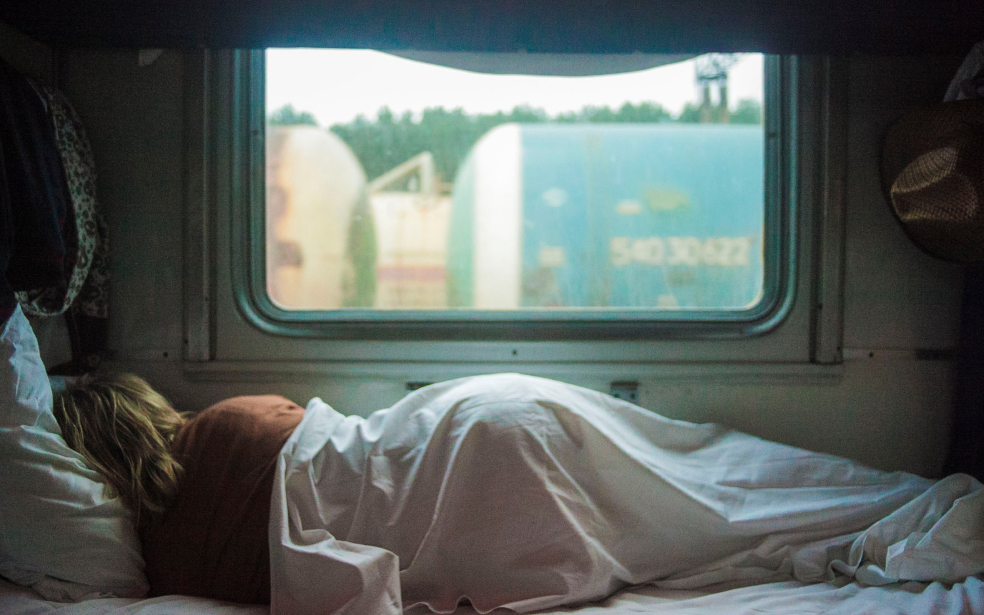
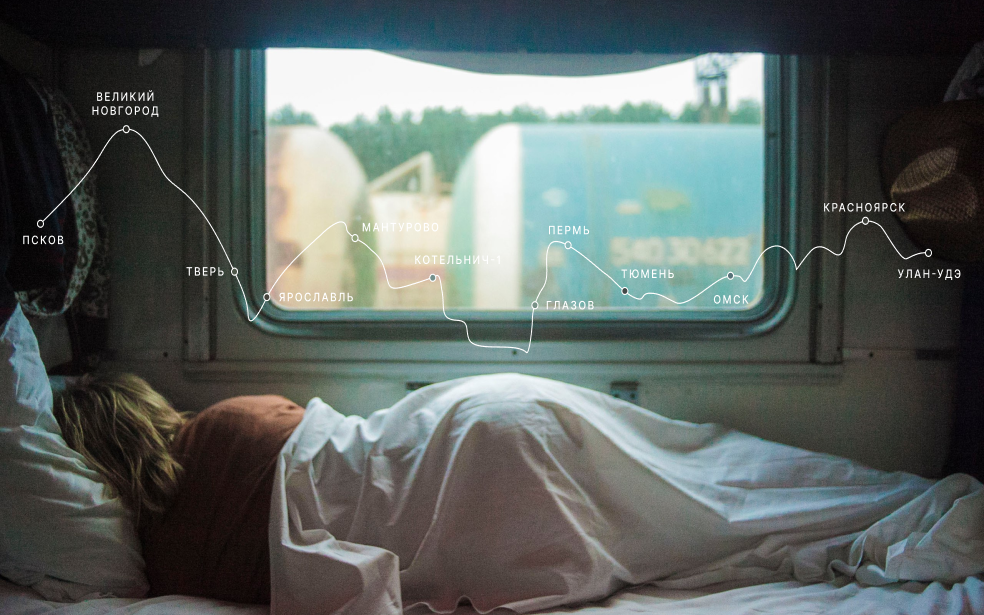
Подогнал под perfect pixel

diff --git a/index.html b/index.html
@@ -9,23 +9,19 @@
 <body>
     <div class=page>
         <header class=header>
-          <svg class="header__logo" width="176" height="52" fill="none" xmlns="http://www.w3.org/2000/svg"><path d="M7.765 23.383l2.646-1.31 4.181-6.281 1.28-.524 1.365 6.37-1.792.261-1.365-2.617-1.024 4.1h4.523l4.693 1.222 1.877-1.221 3.158 3.315 1.365-6.107 2.219 2.268 1.365-1.92 2.219-.61 3.242-3.054.512-1.483 2.646.436 1.11 1.483L40.02 21.9l4.864-2.53v-1.221l1.878-.437 2.048 2.094 2.048-2.53V15.53l3.328-2.355 1.365-2.007h2.133l3.755-7.765L64.683 0l1.194 1.92L64 4.361l.683 1.57 1.792.35 1.45 6.456v5.41l2.56 3.577 1.28 4.973-4.437-2.88-1.963-8.288-1.194.262-.17 5.584-3.244 5.322-.938 8.114 2.218.524.94-1.135 2.132 2.443 1.622 7.33-.17 4.71h-2.049l-.768-6.63-1.45 2.006-3.158-.698-2.56-2.18-2.901 1.046.17 4.712-2.304.61-3.413 2.618-4.096-.524-1.621-.96-2.56.437.853 1.047-2.048 1.221-1.621-.785L33.963 52l-4.694-2.356-1.792-4.188-1.536.175-1.792-1.483-.085-1.135-5.717-.61-.939 3.14-3.584-1.657-1.792-3.054h-3.84l-.427 4.886-2.218.698-1.11 4.45-.853-.785L0 40.745l4.267-2.094-.683-4.1-.683-4.189 1.878-2.704L4.18 26l2.56-2.792 1.024.175zm56.747 10.295l3.925 5.933 1.28-.524-1.62-2.443-3.585-3.839v.873zm-40.107-12.04v-1.745l2.987-2.182 2.56-1.308h-2.987l-2.645 1.57-1.621 1.483v2.182h1.706zM89.831 41h4.724V35.82h2.616c3.967 0 6.626-2.344 6.626-6.103 0-3.716-2.591-6.17-6.456-6.17h-7.51V41zm4.724-8.863V27.33h1.665c1.656 0 2.65.886 2.65 2.386 0 1.492-.994 2.42-2.65 2.42h-1.665zM111.604 41.24c4.247 0 6.762-2.728 6.762-6.75 0-4.024-2.515-6.75-6.762-6.75-4.248 0-6.762 2.726-6.762 6.75 0 4.022 2.514 6.75 6.762 6.75zm.034-3.478c-1.257 0-2.005-1.253-2.005-3.307 0-2.054.748-3.307 2.005-3.307 1.189 0 1.937 1.253 1.937 3.307 0 2.054-.748 3.307-1.937 3.307zM126.555 41.24c3.865 0 6.235-2.225 6.286-5.694h-4.349c-.102 1.372-.841 2.114-1.869 2.114-1.232 0-2.039-1.057-2.039-3.205s.807-3.205 2.039-3.205c1.036 0 1.741.742 1.869 2.114h4.349c-.025-3.409-2.446-5.625-6.286-5.625-4.247 0-6.762 2.727-6.762 6.75s2.515 6.75 6.762 6.75zM141.062 41.24c3.866 0 6.236-2.225 6.287-5.694h-4.35c-.102 1.372-.841 2.114-1.869 2.114-1.231 0-2.038-1.057-2.038-3.205s.807-3.205 2.038-3.205c1.037 0 1.742.742 1.869 2.114h4.35c-.026-3.409-2.447-5.625-6.287-5.625-4.247 0-6.762 2.727-6.762 6.75s2.515 6.75 6.762 6.75zM153.701 35v-7.09h-4.418V41h4.418l3.636-7.125V41h4.417V27.91h-4.417L153.701 35zM171.651 41H176V27.91h-6.116c-3.764 0-6.142 1.909-6.117 4.568-.017 1.491.875 2.727 2.438 3.46L163.631 41h4.316l2.2-4.33h1.504V41zm0-7.159h-1.665c-1.249 0-1.827-.613-1.801-1.193-.026-.545.518-1.227 1.699-1.227h1.767v2.42z" fill="#fff"/></svg>
-          <ul class="header__language-list">
-            <li class="header__list-item">
-              <a class="header__lang-link header__lang-link_pointer" href="#">Ru</a>
-            </li>
-            <li class="header__list-item">
-              <a class="header__lang-link" href="#">En</a>
-            </li>
-          </ul>
+          <img class="header__logo" src="./images/header-logo.svg" alt="карта России">
+          <div class="header__language-list">
+          <a class="header__lang-link header__lang-link_pointer" href="#">Ru</a>
+          <a class="header__lang-link" href="#">En</a>
+          </div>
         </header>
         <section class="lead">
-          <h1 class="lead__title">Путешествия по России</h1>
+          <h1 class="lead__title">Путешествия<br>по России</h1>
           <p class="lead__subtitle">Настоящая страна не в выпусках новостей, а здесь.</p>
-          <div class="lead__image">
-            <img src="./images/Group 4.svg" alt="Путь путешествия с пометкой городов" class="lead__image-track">
-          </div>
-          <p class="lead__caption">Ваша полка - верхняя</p>
+          <figure class="lead__image">
+            <img src="./images/lead-polka.png" alt="Спящая девушка в вагоне" class="lead__image-track">
+          <figcaption class="lead__caption">Ваша полка &#8212; верхняя</figcaption>
+          </figure>
         </section>
         <section class="intro">
           <h2 class="intro__title">Чего мы там не видели?</h2>
@@ -73,10 +69,8 @@
               <a class="place__link" href="https://yourshot.nationalgeographic.com/photos/?keywords=kolskiy" target="_blank">National Geographic</a>
             </div>
             <div class="place__text">
-            <p class="place__paragraph">Почти весь полуостров находится за Полярным кругом. Саамская тундра, от которой на юг — 
-              тайга, а на север — Ледовитый океан, прикидывающийся Баренцевым морем.</p>
-            <p class="place__paragraph">Возможно, вы смотрели Звягинцева и даже слышали историю арктического фестиваля в Териберке. Возможно, слово «Хибины» не осталось под снегом школьных воспоминаний об уроках географии. Возможно, вы не интересовались пронизывающей земную кору сверхглубокой скважиной, а от апатитов вас давно накрывает апатия. Но ваша мечта увидеть северное сияние начинает сбываться с билетом
-              в Мурманск.</p>
+            <p class="place__paragraph">Почти весь полуостров находится за Полярным кругом. Саамская тундра, от которой на юг — тайга, а на север — Ледовитый океан, прикидывающийся Баренцевым морем.</p>
+            <p class="place__paragraph">Возможно, вы смотрели Звягинцева и даже слышали историю арктического фестиваля в Териберке. Возможно, слово «Хибины» не осталось под снегом школьных воспоминаний об уроках географии. Возможно, вы не интересовались пронизывающей земную кору сверхглубокой скважиной, а от апатитов вас давно накрывает апатия. Но ваша мечта увидеть северное сияние начинает сбываться с билетом в Мурманск.</p>
             </div>
           </article>
           <article class="place">
@@ -87,8 +81,7 @@
               <a class="place__link" href="https://www.facebook.com/vera.bashmakova/posts/10156011613718822" target="_blank">Facebook</a>
             </div>
             <div class="place__text">
-            <p class="place__paragraph">Алтай — одно из красивейших мест в России. 
-              В первую очередь из-за гор: если ехать вдоль хребта, вы увидите склоны, усыпанные соснами, горные реки и озёра. А если вы откроете в автомобиле окна, сможете познакомиться с невидимым чудом здешних мест — горным воздухом.</p>
+            <p class="place__paragraph">Алтай — одно из красивейших мест в России. В первую очередь из-за гор: если ехать вдоль хребта, вы увидите склоны, усыпанные соснами, горные реки и озёра. А если вы откроете в автомобиле окна, сможете познакомиться с невидимым чудом здешних мест — горным воздухом.</p>
             <p class="place__paragraph">Климат на Алтае умеренный, поэтому ехать сюда лучше всего летом. Так вы увидите всё разнообразие местной флоры и фауны. По лесам Алтая бродят лоси, над хребтами летают орлы, а на равнинах пасутся косули. И знаменитые манулы — тоже обитатели Алтайского края.</p>
             </div>
           </article>
@@ -100,10 +93,8 @@
               <a class="place__link" href="https://vk.com/baikalmile" target="_blank">https://vk.com/baikalmile</a>
             </div>
             <div class="place__text">
-            <p class="place__paragraph">Всем известен Байкал как крупнейшее озеро 
-              в мире. Многие также знают, что это самый большой источник пресной воды и одно из красивейших мест в России.</p>
-            <p class="place__paragraph"></p>Конечно, это всё так. Но Байкал ещё идеальное место для соревнований по скийорингу. Это такой вид спорта, когда лыжник привязывает себя 
-              к мотоциклу, и тандем старается развить как можно бóльшую скорость на льду. В марте 2019 года на фестивале «Байкальская миля» был поставлен мировой рекорд — 197.011 км/ч.</p>
+            <p class="place__paragraph">Всем известен Байкал как крупнейшее озеро в мире. Многие также знают, что это самый большой источник пресной воды и одно из красивейших мест в России.</p>
+            <p class="place__paragraph"></p>Конечно, это всё так. Но Байкал ещё идеальное место для соревнований по скийорингу. Это такой вид спорта, когда лыжник привязывает себя к мотоциклу, и тандем старается развить как можно бóльшую скорость на льду. В марте 2019 года на фестивале «Байкальская миля» был поставлен мировой рекорд — 197.011 км/ч.</p>
             </div>
           </article>
           <article class="place">
@@ -114,9 +105,7 @@
               <a class="place__link" href="http://vodlozero.ru" target="_blank">http://vodlozero.ru/</a>
             </div>
             <div class="place__text">
-            <p class="place__paragraph">Сибирь заканчивается не на Урале, а в Карелии: образующая тайгу сибирская лиственница не растёт западнее Водлозера. Зато здесь она вымахивает на 30 метров — леса карельских национальных парков из-за непроходимых болот никогда не знали топора. Некоторым соснам уже больше чем полтысячелетия. Прикоснитесь к живому существу, видевшему солнце раньше, чем увидал его Иван Грозный. 
-              В девственном лесу на сотню километров не встретишь тропы. А на редких тропинках деревья 
-              в паре метров от земли помечены медвежьими когтями. Чтобы все знали, кто тут хозяин.</p>
+            <p class="place__paragraph">Сибирь заканчивается не на Урале, а в Карелии: образующая тайгу сибирская лиственница не растёт западнее Водлозера. Зато здесь она вымахивает на 30 метров — леса карельских национальных парков из-за непроходимых болот никогда не знали топора. Некоторым соснам уже больше чем полтысячелетия. Прикоснитесь к живому существу, видевшему солнце раньше, чем увидал его Иван Грозный. В девственном лесу на сотню километров не встретишь тропы. А на редких тропинках деревья в паре метров от земли помечены медвежьими когтями. Чтобы все знали, кто тут хозяин.</p>
             </div>
           </article>
         </section>

diff --git a/blocks/header/__lang-link/header__lang-link.css b/blocks/header/__lang-link/header__lang-link.css
@@ -1,9 +1,20 @@
 .header__lang-link {
   color: #fff;
+  font-family: Inter;
+  font-style: normal;
+  font-weight: normal;
   text-decoration: none;
   font-size: 24px;
   line-height: 1.2;
+  width: 29px;
+  height: 28px;
   cursor: pointer;
+  margin-left: 19px;
+  
+}
+
+.header__lang-link:first-of-type {
+  margin-left: 0;
 }
 
 .header__lang-link:hover {

diff --git a/blocks/lead/__image/lead__image.css b/blocks/lead/__image/lead__image.css
@@ -1,12 +1,5 @@
 .lead__image {
-    background-image: url('../../../images/lead-polka.png');
-    padding-bottom: 19.5%;
-    min-height: ;
+    
     width: 100%;
-    display: flex;
-    /*align-items: center;*/
-    justify-content: center;
-    background-size: 100%;
-    background-repeat: no-repeat;
-    position: relative;
+    margin: 64px 0 0;
 }

diff --git a/blocks/lead/__caption/lead__caption.css b/blocks/lead/__caption/lead__caption.css
@@ -1,7 +1,11 @@
 .lead__caption {
-    align-self: start;
-    text-transform: uppercase;
+    font-family: Inter;
+    font-style: normal;
+    font-weight: normal;
     font-size: 10px;
-    line-height: 1.5;
+    line-height: 1.4;
     letter-spacing: 0.15em;
+    text-transform: uppercase;
+    margin-top: 4px;
+    color: #FFFFFF;
 }

diff --git a/blocks/footer/__link/footer__link.css b/blocks/footer/__link/footer__link.css
@@ -3,10 +3,10 @@
     font-style: normal;
     font-weight: normal;
     font-size: 16px;
-    line-height: 1.2;
+    line-height: 1.12;
     color: #FFFFFF;
     text-decoration: none;
-    margin-left: 18px;
+    margin-left: 19px;
     cursor: pointer;
 }
 

diff --git a/blocks/lead/__title/lead__title.css b/blocks/lead/__title/lead__title.css
@@ -2,8 +2,9 @@
     text-align: center;
     margin: 0 auto 32px;
     font-size: 96px;
-    line-height: 1.2;
+    line-height: 1.044;
     max-width: 720px;
+    max-height: 200px;
     font-family: Inter;
     font-style: normal;
     font-weight: 900;

diff --git a/blocks/header/__language-list/header__language-list.css b/blocks/header/__language-list/header__language-list.css
@@ -4,6 +4,11 @@
     align-items: flex-end;
     list-style-type: none;
     margin: 0;
-    padding: 0;
+    padding: 0 0 6px;
+    font-family: Inter;
+    font-style: normal;
+    font-weight: 400;
+    font-size: 24px;
+    
 }
 

diff --git a/blocks/place/__paragraph/place__paragraph.css b/blocks/place/__paragraph/place__paragraph.css
@@ -3,9 +3,9 @@
     font-style: normal;
     font-weight: normal;
     font-size: 18px;
-    line-height: 1.6;
+    line-height: 1.63;
     color: #FFFFFF;
-    margin: 26px 0 0;
+    margin: 28px 0 0;
     max-width: 484px;
 }
 

diff --git a/blocks/intro/__text/intro__text.css b/blocks/intro/__text/intro__text.css
@@ -1,7 +1,7 @@
 .intro__text {
-    margin: 0 0 33px;
+    margin: 0 0 36px;
     font-size: 16px;
-    line-height: 1.6;
+    line-height: 1.63;
     font-family: Inter;
     font-style: normal;
     font-weight: normal;

diff --git a/blocks/intro/__title/intro__title.css b/blocks/intro/__title/intro__title.css
@@ -1,7 +1,7 @@
 .intro__title {
-    margin: 0 0 40px;
+    margin: 0 0 41px;
     font-size: 54px;
-    line-height: 1.1;
+    line-height: 1.07;
     font-family: Inter;
     font-style: normal;
     font-weight: 900;

diff --git a/blocks/header/header.css b/blocks/header/header.css
@@ -2,8 +2,8 @@
     display: flex;
     flex-direction: row;
     justify-content: space-between;
-    margin: 0 auto 56px;
+    margin: 0 48px 56px;
     padding: 0;
     height: 52px;
-    width: 92.5%;
+    
 }

diff --git a/blocks/cover/__subtitle/cover__subtitle.css b/blocks/cover/__subtitle/cover__subtitle.css
@@ -7,7 +7,7 @@
     font-style: normal;
     font-weight: normal;
     font-size: 18px;
-    line-height: 1.2;
+    line-height: 1.22;
     text-align: center;
     max-width: 360px;
     color: #fff;
